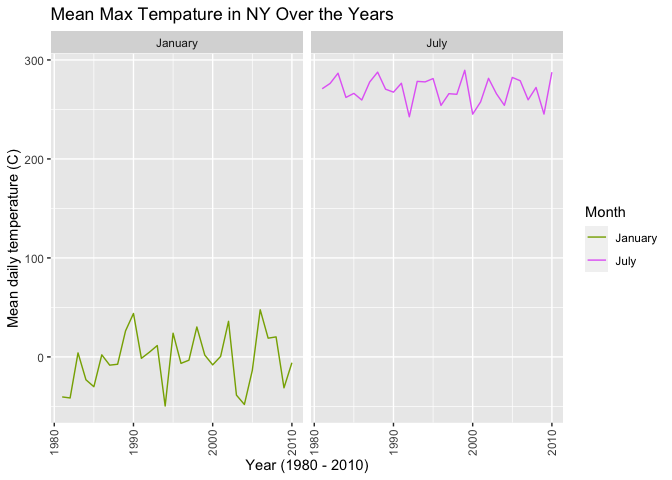
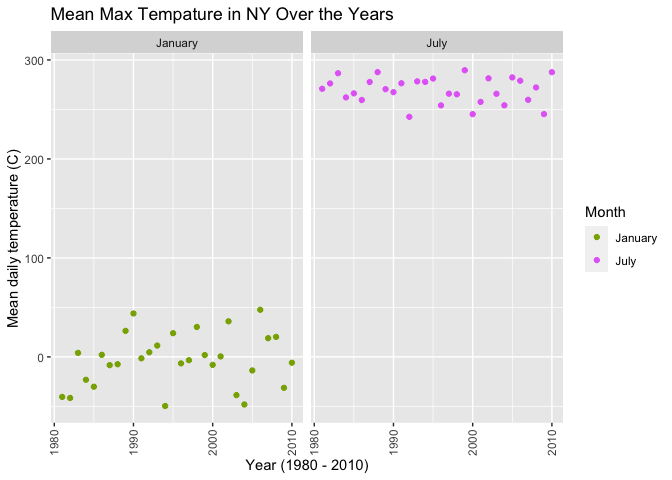
finiishing up the last question

diff --git a/p8105_hw3_ajp2257.md b/p8105_hw3_ajp2257.md
@@ -408,12 +408,7 @@ common values is NA or a missing value.
     and in July in each station across years. Is there any observable /
     interpretable structure? Any outliers?
 
-this is data manipulation steps and then plot them first step -\> how do
-we need to organize the data (group by (station, month,year), and
-summarize(max temp), filter(just jan)) Do same thing for the july use
-facating
-
-(can we see global warming happening)
+<!-- end list -->
 
 ``` r
 ny_noaa_fixed %>%
@@ -425,7 +420,7 @@ ny_noaa_fixed %>%
   ) %>%
   filter(mean_temp != "NaN") %>%
     ggplot(aes(x = year, y = mean_temp)) +
-      geom_line(aes(color = factor(month))) + 
+      geom_point(aes(color = factor(month))) + 
       theme(axis.text.x = element_text(angle = 90, vjust = 0.5, hjust = 1)) +
       facet_grid(.~month ) +
       labs(
@@ -467,10 +462,10 @@ ny_noaa_fixed %>%
 
 ![](p8105_hw3_ajp2257_files/figure-gfm/unnamed-chunk-15-1.png)<!-- -->
 
-somrgng - Make a two-panel plot showing (i) tmax vs tmin for the full
-dataset (note that a scatterplot may not be the best option); and (ii)
-make a plot showing the distribution of snowfall values greater than 0
-and less than 100 separately by year.
+  - Make a two-panel plot showing (i) tmax vs tmin for the full dataset
+    (note that a scatterplot may not be the best option); and (ii) make
+    a plot showing the distribution of snowfall values greater than 0
+    and less than 100 separately by year.
 
 These are two distinct plots and then we need to join them together
 probably patch work merge them to gether in some way
@@ -478,3 +473,36 @@ probably patch work merge them to gether in some way
 first plot is a scatter plot, need to do a contor plot or a bin plot
 
 second need to filter, then use something like a box plots for each year
+
+``` r
+one = ggplot(ny_noaa_fixed, aes(x = tmax, y = tmin)) + 
+  geom_bin2d() +
+  labs(
+    title = "Min and Max Tempatures in NY",
+    x = "Max daily temperature (C)",
+    y = "Min daily temperature (C)"
+  ) 
+
+
+two = ny_noaa_fixed %>%
+  select(year, snow) %>%
+  group_by(year)%>%
+  filter(snow > 0, snow < 100) %>%
+  ggplot(aes(x=factor(year), y=snow)) +
+    geom_boxplot(fill = "lightblue") +
+    stat_summary(fun = "mean", color = "blue") +
+    theme(axis.text.x = element_text(angle = 90, vjust = 0.5, hjust = 1)) +
+    labs(
+          title = "NY Snow Fall",
+          x = "Years",
+          y = "Snow Fall"
+        ) 
+  
+(one / two)
+```
+
+    ## Warning: Removed 1136276 rows containing non-finite values (stat_bin2d).
+
+    ## Warning: Removed 30 rows containing missing values (geom_segment).
+
+![](p8105_hw3_ajp2257_files/figure-gfm/unnamed-chunk-17-1.png)<!-- -->
